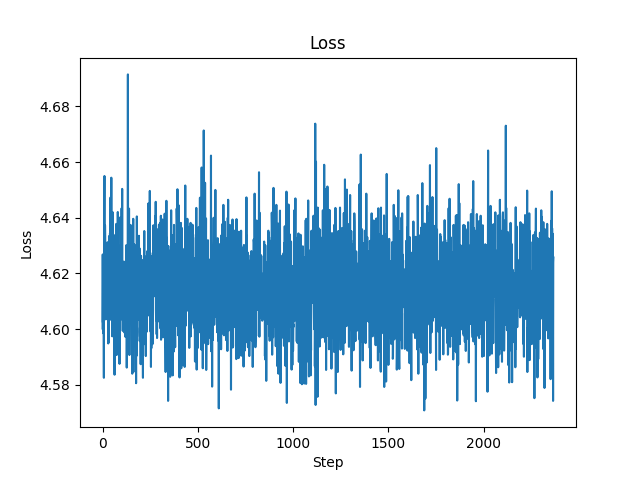
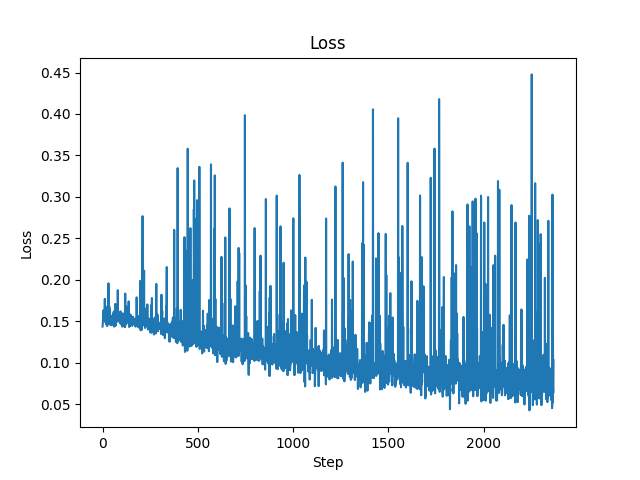
debugged prcise parameter settings

diff --git a/src/model/vpt_clip/vpt_clip.py b/src/model/vpt_clip/vpt_clip.py
@@ -54,13 +54,8 @@ class CLIPEmbedding(Embeddings):
         width = x.shape[1]
         scale = width**-0.5
         patch_size = x.shape[2]
-        self.class_embedding = nn.Parameter(
-            scale * torch.randn(width), requires_grad=False
-        )
-        self.positional_embedding = nn.Parameter(
-            scale
-            * torch.randn((self.input_resolution[0] // patch_size) ** 2 + 1, width),
-            requires_grad=False,
+        self.class_embedding = nn.Parameter(scale * torch.randn(width))
+        self.positional_embedding = nn.Parameter(scale * torch.randn((self.input_resolution[0] // patch_size) ** 2 + 1, width)
         )
 
         # reform embeddings
@@ -121,6 +116,9 @@ class VisionPromptCLIP(nn.Module):
         self.num_tokens = self.prompt_config.NUM_TOKENS
         self.prompt_dropout = nn.Dropout(0.2)
 
+        # output layer
+        self.head = nn.Linear(self.ViT.output_dim, num_classes)
+
         print("Setting up prompt...")
         print("Project: ", self.prompt_config.PROJECT)
 
@@ -128,10 +126,12 @@ class VisionPromptCLIP(nn.Module):
         # if project the prompt embeddings
         if self.prompt_config.PROJECT > -1:
             # only for prepend / add
+            print("Project")
             self.prompt_dim = self.prompt_config.PROJECT
             self.prompt_proj = nn.Linear(self.prompt_dim, config.hidden_size)
             nn.init.kaiming_normal_(self.prompt_proj.weight, a=0, mode="fan_out")
         else:
+            print("No project")
             self.prompt_dim = config.hidden_size
             self.prompt_proj = nn.Identity()
 
@@ -223,12 +223,10 @@ class VisionPromptCLIP(nn.Module):
 
         image_features_vpt = input_embedding
 
-        text_features = self.model.encode_text(self.prompts)
-
-        # after calculating text features, convert back to fp32
-        image_features_vpt = image_features_vpt / image_features_vpt.norm(
-            dim=-1, keepdim=True
-        )
+        # # after calculating text features, convert back to fp32
+        # image_features_vpt = image_features_vpt / image_features_vpt.norm(
+        #     dim=-1, keepdim=True
+        # )
 
         return image_features_vpt
 
@@ -246,6 +244,7 @@ class VisionPromptCLIP(nn.Module):
         logits : torch.Tensor
             Output logits tensor
         """
+        # retrive image features 
         image_features_vpt = self.encode_image(x)
 
         with torch.no_grad():
@@ -257,9 +256,21 @@ class VisionPromptCLIP(nn.Module):
         self.prompt_proj.train()
         self.prompt_dropout.train()
         return logits
-    
+
     def linear_probe(self, x: torch.Tensor) -> torch.Tensor:
-        image_features_vpt = self.encode_image(x)
+        """
+        Linear probe of Vision Prompt CLIP
+        """
+
+        # Ground Truth for debugging
+        # with torch.no_grad():
+        #     image_features = self.model.encode_image(x)
+
+        image_features = self.encode_image(x)
+
+        self.head.train()
+        logits = self.head(image_features)
+        return logits
 
     def train(self):
         """
@@ -275,6 +286,7 @@ class VisionPromptCLIP(nn.Module):
         # set model to train mode
         self.prompt_proj.train()
         self.prompt_dropout.train()
+        self.head.train()
 
     def eval(self):
         """

diff --git a/train.py b/train.py
@@ -75,35 +75,33 @@ def main():
     predicted = []
     labels = []
 
-    # define optimizer and loss function, update only two parameters (prompt_dropout and prompt_proj)
+    # define optimizer and loss function, update only one parameter linear in the model
+    parameters = (
+        list(model.head.parameters())
+        + list(model.prompt_dropout.parameters())
+        + list(model.prompt_proj.parameters())
+    )
     optimizer = torch.optim.SGD(
-        [
-            {"params": model.prompt_dropout.parameters()},
-            {"params": model.prompt_proj.parameters()},
-        ],
+        parameters,
         lr=dataset_config.SOLVER.BASE_LR,
         weight_decay=dataset_config.SOLVER.WEIGHT_DECAY,
     )
+
+    max_epochs = 20
+    warm_up_epochs = 5
     loss_fn = torch.nn.CrossEntropyLoss()
 
     pbar = tqdm(train_loader)
     torch.autograd.set_detect_anomaly(True)
-    for epoch in range(1):
+    for epoch in range(warm_up_epochs + max_epochs):
         loss_step = []
         accuracy_step = []
         for img, label, idx in pbar:
-            # TODO check how this improve linear probe accuracy
-            # dynamically cast to fp16 to save memory and comatible with clip
-
-            # check if parameters has been updated
-            for name, param in model.named_parameters():
-                if param.requires_grad:
-                    print(name, param.data.sum())
-
-            # forward pass
+            
+            # mixed precision training
             with autocast():
                 # calculate logits
-                logits = model(img.to(args.device))
+                logits = model.linear_probe(img.to(args.device))
                 assert logits.dtype == torch.float16
 
                 # calculate loss
@@ -120,9 +118,6 @@ def main():
             predicted.append(indices.cpu().numpy())
             labels.append(label.cpu().numpy())
 
-            print("Predicted: ", list(indices.cpu().numpy()))
-            print("Labels: ", list(label.cpu().numpy()))
-
             accuracy = (indices == label.to(args.device)).float().mean().item()
 
             # draw loss and accuracy
@@ -133,7 +128,7 @@ def main():
             pbar.set_description(
                 "Epoch [{}/{}] Loss: {:.4f} Accuracy: {:.2f}%".format(
                     epoch + 1,
-                    1,
+                    max_epochs,
                     loss.item(),
                     accuracy * 100,
                 )
